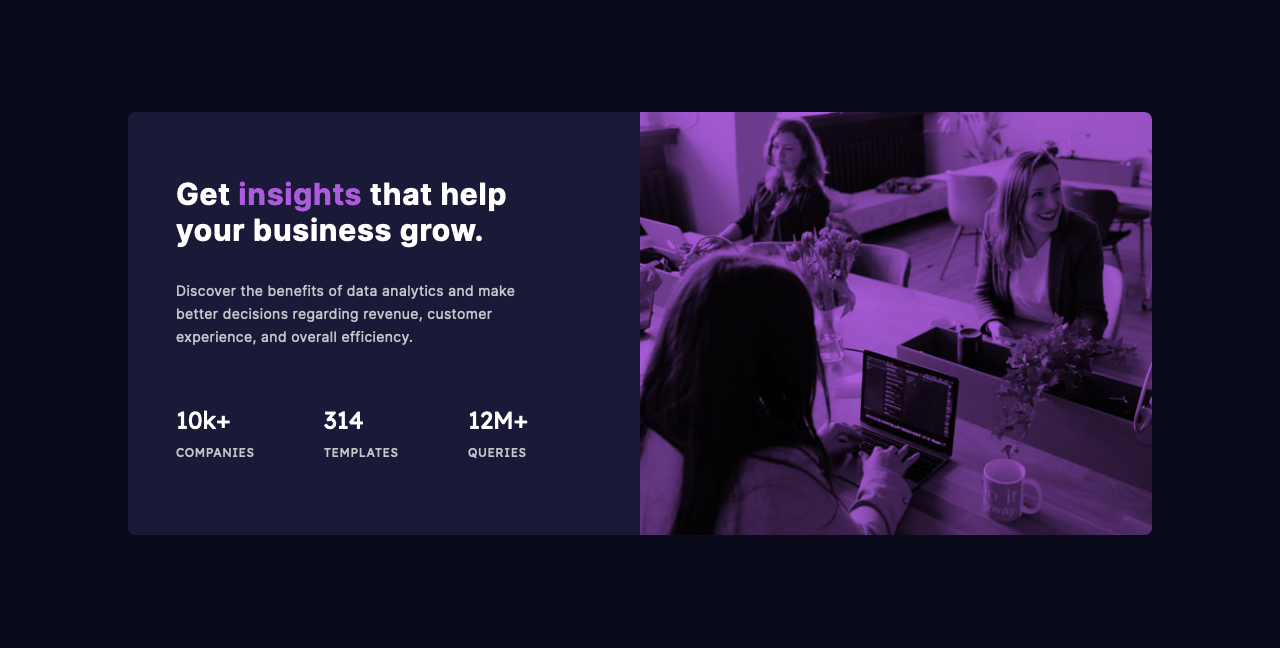
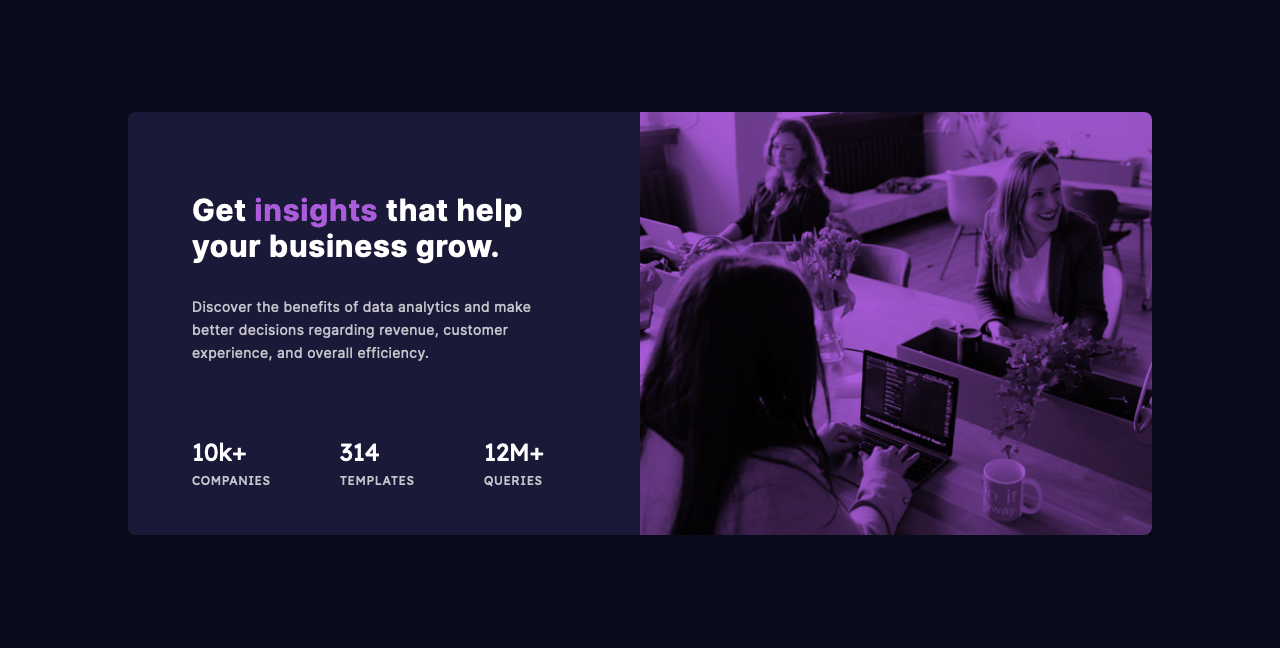
Mobile view finished and minor desktop fix

diff --git a/index.html b/index.html
@@ -29,58 +29,59 @@
     <link rel="stylesheet" href="style.css" />
 
     <title>Frontend Mentor | Stats preview card component</title>
-
-    <!-- Feel free to remove these styles or customise in your own stylesheet 👍 -->
-    <style>
-      .attribution {
-        font-size: 11px;
-        text-align: center;
-      }
-      .attribution a {
-        color: hsl(228, 45%, 44%);
-      }
-    </style>
   </head>
   <body>
-    <section class="max-w-5xl mx-auto mt-28 rounded-lg grid grid-cols-2">
-      <div class="pt-16 pl-12 pr-28">
-        <h1 id="inter" class="pb-8 text-3xl font-bold tracking-wide">
+    <section
+      class="
+        mx-8
+        flex flex-col-reverse
+        lg:max-w-5xl
+        lg:mx-auto
+        mt-28
+        mb-28
+        rounded-lg
+        sm:grid sm:grid-cols-2
+      "
+    >
+      <div
+        class="pt-8 px-6 text-center md:text-left lg:pt-20 lg:pl-16 lg:pr-24"
+      >
+        <h1
+          id="inter"
+          class="pb-4 lg:pb-8 text-2xl lg:text-3xl font-bold tracking-wide"
+        >
           Get <span>insights</span> that help your business grow.
         </h1>
-        <p id="inter" class="pb-10 text-sm tracking-wide leading-relaxed">
+        <p
+          id="inter"
+          class="pb-6 lg:pb-10 text-sm tracking-wide leading-relaxed"
+        >
           Discover the benefits of data analytics and make better decisions
           regarding revenue, customer experience, and overall efficiency.
         </p>
-        <div id="lexend" class="flex justify-between pt-4">
-          <div>
+        <div id="lexend" class="sm:flex sm:justify-between lg:pt-8">
+          <div class="pb-4">
             <h1 class="text-2xl">10k+</h1>
-            <p class="uppercase text-xs tracking-wider pt-2">companies</p>
+            <p class="uppercase text-xs tracking-wider pt-1">companies</p>
           </div>
-          <div class="uppercase">
+          <div class="uppercase pb-4">
             <h1 class="text-2xl">314</h1>
-            <p class="text-xs tracking-wider pt-2">templates</p>
+            <p class="text-xs tracking-wider pt-1">templates</p>
           </div>
-          <div class="uppercase">
+          <div class="uppercase pb-4">
             <h1 class="text-2xl">12m+</h1>
-            <p class="text-xs tracking-wider pt-2">queries</p>
+            <p class="text-xs tracking-wider pt-1">queries</p>
           </div>
         </div>
       </div>
 
-      <div class="accent rounded-r-lg">
+      <div class="accent rounded-t-lg md:rounded-t-none md:rounded-r-lg">
         <img
-          class="rounded-r-lg mix-blend-multiply"
+          class="mix-blend-multiply"
           src="./images/image-header-desktop.jpg"
           alt="image header"
         />
       </div>
     </section>
-
-    <!-- <div class="attribution">
-      Challenge by
-      <a href="https://www.frontendmentor.io?ref=challenge" target="_blank"
-        >Frontend Mentor</a
-      >. Coded by <a href="#">Your Name Here</a>.
-    </div> -->
   </body>
 </html>

diff --git a/style.css b/style.css
@@ -4,7 +4,6 @@ body {
 
 section {
   background-color: hsl(244, 38%, 16%);
-  /* background-color: white; */
   color: white;
 }
 

diff --git a/README.md b/README.md
@@ -24,6 +24,7 @@ Users should be able to:
 ### Screenshot
 
 ![Screenshot1](./screenshot/screenshot1.png)
+![Screenshot2](./screenshot/screenshot2.png)
 
 ### Links
 
@@ -37,7 +38,7 @@ Users should be able to:
 
 ### What I learned
 
-I learned about mix-blend-mode.
+I learned about mix-blend-mode and flex column reverse.
 
 ## Author
 
